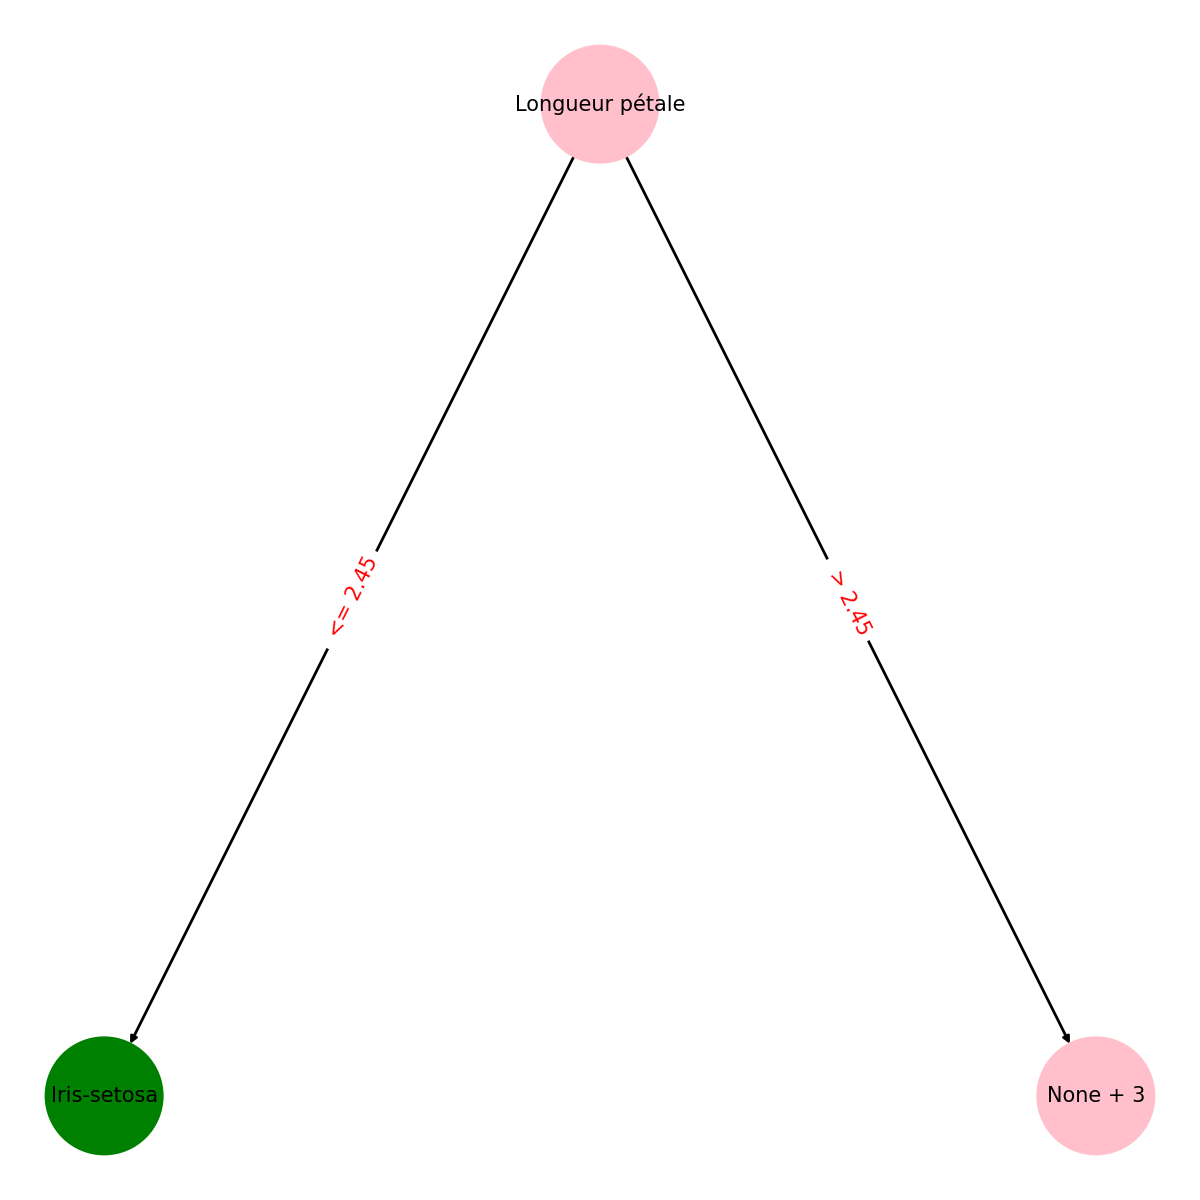
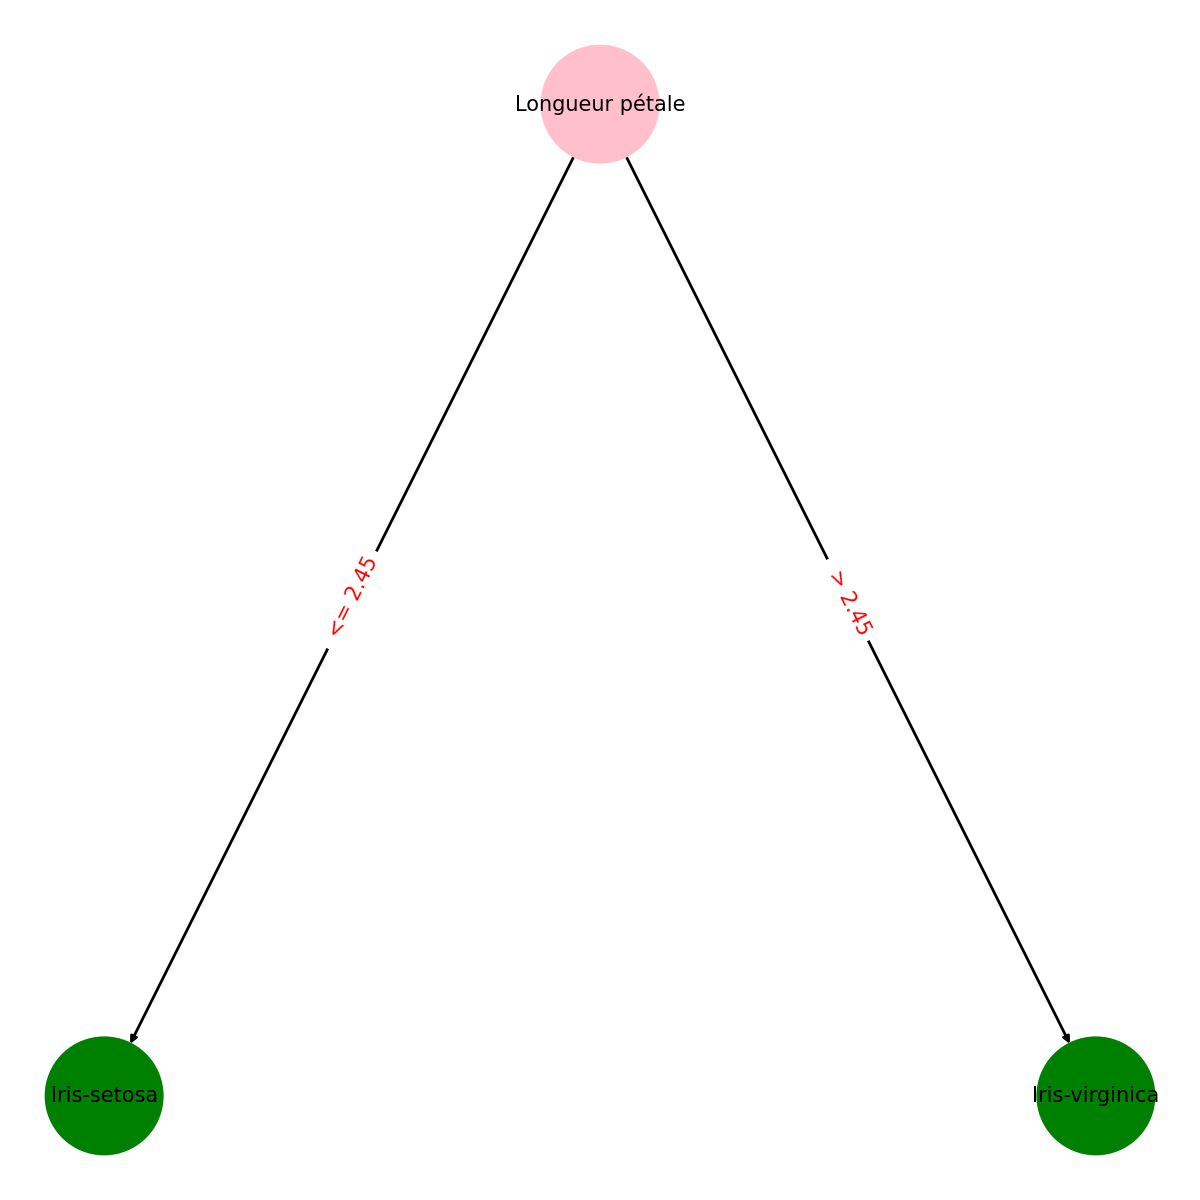
elagage

Changed region(s): [[0.8633, 0.8633, 0.9867, 0.9867]]

diff --git a/Code4/DecisionTree.py b/Code4/DecisionTree.py
@@ -142,7 +142,7 @@ class DecisionTree: #nom de la class à changer
 		_, columns = data.shape
 		for column in range(columns):
 			values = data[:, column]
-			uniqueValues = np.unique(values)
+			uniqueValues = np.unique(values) # uniques valeurs
 			if len(uniqueValues) == 1:
 				potentialSplits[column] = uniqueValues
 			else:
@@ -151,7 +151,7 @@ class DecisionTree: #nom de la class à changer
 					if i != 0:
 						currentValue = uniqueValues[i]
 						previousValue = uniqueValues[i - 1]
-						potentialSplits[column].append((currentValue + previousValue) / 2)
+						potentialSplits[column].append((currentValue + previousValue) / 2) # on prend la médiane comme potentielle coupe
 		return potentialSplits
 
 
@@ -253,7 +253,7 @@ class DecisionTree: #nom de la class à changer
 		y_pred = np.array([self.predict(x, decision_tree) for x in X])
 		show_metrics(y, y_pred)
 
-	def build_learning_curve(self, train, train_labels, seed):
+	def build_learning_curve(self, train, train_labels, seed, do_pruning = False):
 		size = []
 		acc = []
 		np.random.seed(seed) 
@@ -261,12 +261,14 @@ class DecisionTree: #nom de la class à changer
 		np.random.shuffle(indices)
 		train = train[indices]
 		train_labels = train_labels[indices]
-		for nb_instances in range(1, 100):
-			train_used = train[0:nb_instances]
+		for nb_instances in range(10, 100):
+			train_used = train[0:nb_instances,:]
 			labels_train = train_labels[0:nb_instances]
-			test_used = train[nb_instances:100]
+			test_used = train[nb_instances:100,:]
 			labels_test = train_labels[nb_instances:100]
 			decision_tree = self.train(train_used, labels_train)
+			if do_pruning :
+				decision_tree = self.pruningTree(decision_tree, train_used, labels_train)
 			y_pred = np.array([self.predict(x, decision_tree) for x in test_used])
 			correct_pred = y_pred == labels_test
 			accuracy = np.mean(correct_pred)
@@ -283,7 +285,7 @@ class DecisionTree: #nom de la class à changer
 		plt.xlabel("Taille du jeu d'entraînement")
 		plt.ylabel("Exactitude sur les données test")
 
-		plt.savefig("learning_curve_20_seed_100_{}.png".format(dataset))
+		plt.savefig("learning_curve_pruned_{}.png".format(dataset))
 		#plt.show()
 
 	def extractEdgesFromTree(self, decision_tree, edges = [], edge_labels = {}, oldAttribute = None, olDvalue = None, sep = " <= ", index=0):
@@ -308,13 +310,14 @@ class DecisionTree: #nom de la class à changer
 	   
 
 	def drawTree(self, decision_tree, dataset, name="big"):
+
+		plt.figure(figsize = (12, 12))
 		edges, edges_labels, _, _ = self.extractEdgesFromTree(decision_tree)
 		G = nx.DiGraph()
 		G.add_edges_from(edges)
 
 		pos = hierarchy_pos(G, edges[0][0])
 		#pos = nx.spring_layout(G)
-		plt.figure(figsize = (12, 12))
 		if dataset == "iris":
 			nx.draw(
 				G, pos, edge_color='black', width=2, linewidths=2, font_size = 15,
@@ -337,7 +340,7 @@ class DecisionTree: #nom de la class à changer
 		plt.savefig("tree_{}_{}.png".format(name, dataset))
 		#plt.show()
 
-	def pruningLeaves(self, decision_tree, data):
+	def pruningLeaves(self, decision_tree, data, labels):
 		"""takes decision tree as parameter and returns a pruned tree based on chi square
 			params:
 				obj (dict):
@@ -360,8 +363,22 @@ class DecisionTree: #nom de la class à changer
 			return 'pruned'
 
 		if not isLeaf:
-			if self.pruningLeaves(decision_tree[parent], data):
-				decision_tree[parent] = None
+			sep = ' <= '
+			question = parent.split(sep)
+			if len(question)<2 : 
+				sep = " > "
+				question = parent.split(sep)
+			if len(question)<2 : 
+				sep = " == "
+				question = parent.split(' == ')
+				print(question)
+			attribute, value = question[0], question[1]
+			attribute = np.where([i == attribute for i in self.names])[0][0]
+			indexCorrect = eval("np.where(data[:, attribute]" + sep + value +")")[0]
+			labels = labels[indexCorrect]
+			data = data[indexCorrect,:]
+			if self.pruningLeaves(decision_tree[parent], data, labels):
+				decision_tree[parent] = self.classifyData(labels) # on élague et on rempace le noeud par un noeud feuille
 
 		return decision_tree
 
@@ -378,23 +395,16 @@ class DecisionTree: #nom de la class à changer
 
 		for i in range(data.shape[1]):
 			contengency = pd.crosstab(data[:, i], labels)
-			print(contengency)
 			c, p, dof, expected = chi2_contingency(contengency)
 			if c > chi2.isf(q=alpha, df=dof):
 				self.satisfied_attributes.append(self.names[i])
 
-		print(self.satisfied_attributes)
-		print('\nArbre de décision avant élaguage-\n')
-		print(decision_tree)
-
-		print('\nArbre de décision après élaguage-\n')
 		pruned = True
-		while pruned:
+		while pruned and decision_tree != "pruned":
 			#keep pruning till leaf nodes can be pruned or till whole tree has been pruned
 			pruned = False
-			decision_tree = self.pruningLeaves(decision_tree, data)
+			decision_tree = self.pruningLeaves(decision_tree, data, labels)
 			if decision_tree == 'pruned':
 				break
-		print(decision_tree)
-
+		#print(decision_tree)
 		return decision_tree

diff --git a/Code4/entrainer_tester_1.py b/Code4/entrainer_tester_1.py
@@ -45,8 +45,7 @@ abalone = load_datasets.load_abalone_dataset(train_ratio)
 
 # index des variables factorielles
 
-#for dataset in ["abalone"]:
-for dataset in ["wine"]:
+for dataset in ["iris", "wine", "abalone"]:
     train, train_labels, test, test_labels = eval(dataset)
     ############################################################################
     # DecisionTree
@@ -71,18 +70,12 @@ for dataset in ["wine"]:
     print("\nTemps d'exécution :", tps2-tps1)
 
     # --> Arbre élagué
-    tps1 = perf_counter()
     decision_tree = classif_decisionTree.pruningTree(decision_tree, train, train_labels, alpha = 0.05)
-
-    #print("\n######################################\nEvaluation sur les données d'entraînement / arbre élagué")
     if dataset == "iris" : classif_decisionTree.drawTree(decision_tree, dataset, "elague")
-    #classif_decisionTree.evaluate(train, train_labels, decision_tree)
 
     # --> Evaluation sur les données de test
     print("\n######################################\nEvaluation sur les données de test / arbre élagué")
     classif_decisionTree.evaluate(test, test_labels, decision_tree)
-    tps2 = perf_counter() # utilisé pour calculer les performances, avec seulement l'évaluation sur les données test et pas de print
-    print("\nTemps d'exécution :", tps2-tps1)
     """
     # --> Avec sklearn
     model_decisionTree = DecisionTreeClassifier()

diff --git a/Code4/entrainer_tester.py b/Code4/entrainer_tester.py
@@ -48,7 +48,7 @@ abalone = load_datasets.load_abalone_dataset(train_ratio)
 
 #for dataset in ["abalone"]:
 #for dataset in ["iris", "wine", "abalone"]:
-for dataset in ["iris", "wine", "abalone"]:
+for dataset in ["wine", "abalone"]:
     train, train_labels, test, test_labels = eval(dataset)
     list_acc, list_size = [], []
     for seed in range(20):
@@ -66,7 +66,7 @@ for dataset in ["iris", "wine", "abalone"]:
         #if dataset == "iris" : classif_decisionTree.drawTree(decision_tree, dataset)
         #print(decision_tree)
 
-        acc, size = classif_decisionTree.build_learning_curve(train, train_labels, seed)
+        acc, size = classif_decisionTree.build_learning_curve(train, train_labels, seed, True)
         list_acc.append(acc)
         list_size.append(size)
         # --> Evaluation sur les données d'entraînement
